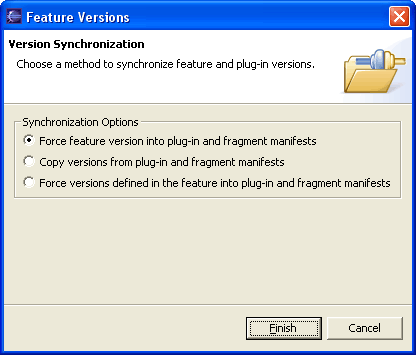
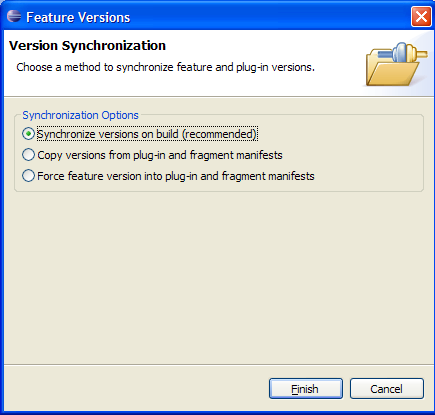
*** empty log message ***

Changed region(s): [[0.0, 0.0, 1.0, 1.0], [0.0, 0.9606, 0.0312, 0.9915]]

diff --git a/bundles/org.eclipse.pde.doc.user/guide/pde_feature_synchronizing.htm b/bundles/org.eclipse.pde.doc.user/guide/pde_feature_synchronizing.htm
@@ -10,6 +10,12 @@
 <BODY BGCOLOR="#ffffff">
 
 <h2>Synchronizing versions</h2>
+<h3>Automatic synchronization at build time (Recommended)</h3>
+If the plug-in version changes frequently and/or developers do not have access 
+to the feature, the versions of plug-ins, fragments and included features can 
+be set to the special value <b>0.0.0</b> that will be replaced when exporting 
+the feature. This is especially convenient when plug-in version are automatically 
+upgraded using the qualifier tag. 
 <h3>UI driven synchronization</h3>
 <p>The versions of plug-ins and fragments should be synchronized with the
 version of the packaged feature so that you can manage plug-in, fragment, and
@@ -32,19 +38,13 @@ before proceeding.</p>
     <b>Finish</b>.</li>
   <li>Switch to the Content page verify that the versions are now
     1.2.2.</li>
-  <li>Double-click on &quot;XYZ Plug-in&quot; and &quot;German Fragment&quot;
-    objects and
-    verify versions in their corresponding manifest editors.</li>
+  <li>Double-click on &quot;XYZ Plug-in&quot; and &quot;German Fragment&quot; 
+    objects and verify versions in their corresponding manifest editors.</li>
 </ol>
 <p align="center">
 <img border="0" src="images/feature-synchronizing.png" alt="Feature version synchronization wizard" ></p>
 
-<h3>Automatic synchronization at build time</h3>
-If the plug-in version changes frequently and/or developers do not have access to the feature, the versions of plug-ins, fragments and included 
-features can be set to the special value <b>0.0.0</b> that will be replaced when exporting the feature. This is especially convenient when plug-in version are automatically 
-upgraded using the qualifier tag.
-
-
+<h3>&nbsp;</h3>
 </body>
 
 </html>
